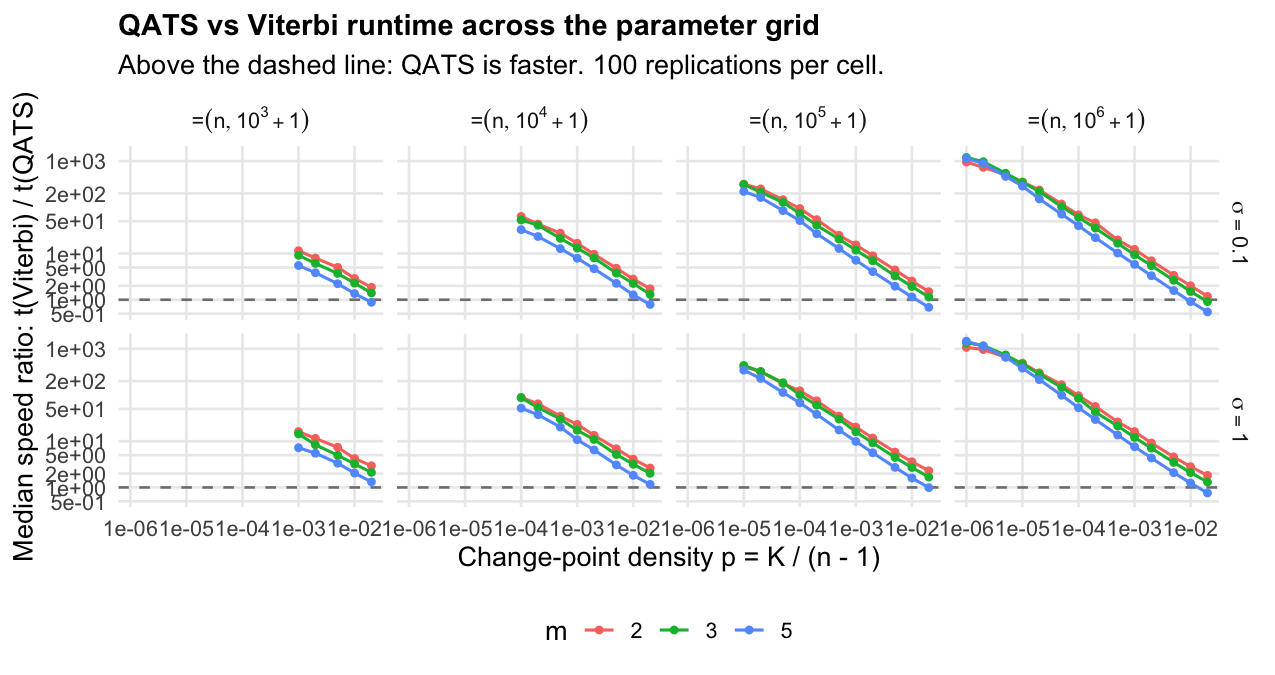
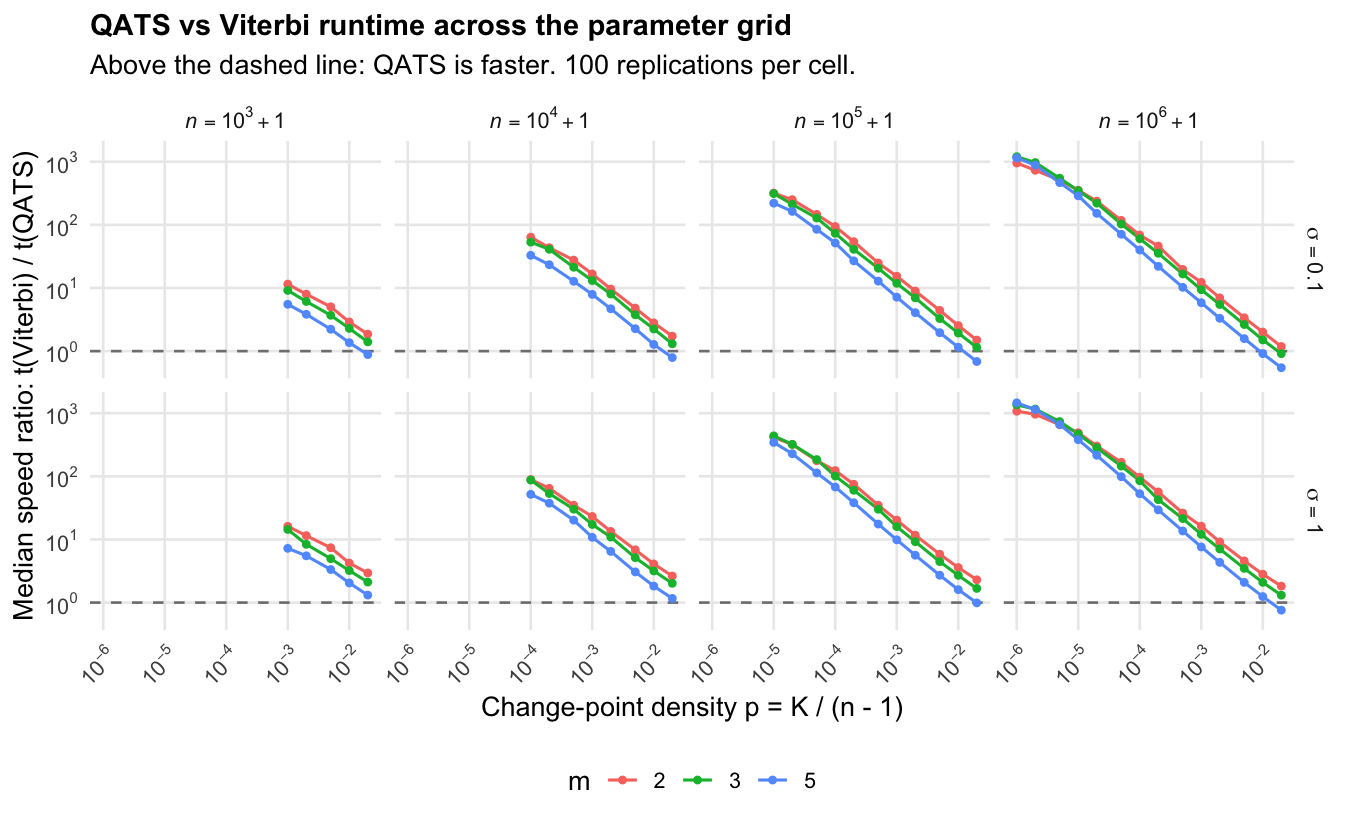
README: fix scaling plot facet labels and axis ticks
- Switch facet labels to factor + label_parsed format so they render as
  proper math (n = 10^3 + 1, sigma = 0.1) instead of being mis-parsed as
  R assignments
- Restrict axis breaks to powers of 10 with scales::label_log() and tilt
  x-axis labels 45 degrees to prevent overlap
- Bump figure size to 9 x 5.5 for better readability

diff --git a/README.md b/README.md
@@ -244,8 +244,14 @@ ggplot(sim, aes(x = p, y = ratio_q50,
   geom_hline(yintercept = 1, colour = "grey50", linetype = "dashed") +
   geom_line(linewidth = 0.7) +
   geom_point(size = 1.2) +
-  scale_x_log10() +
-  scale_y_log10(breaks = c(0.5, 1, 2, 5, 10, 50, 200, 1000)) +
+  scale_x_log10(
+    breaks = 10^(-6:0),
+    labels = scales::label_log()
+  ) +
+  scale_y_log10(
+    breaks = 10^(0:3),
+    labels = scales::label_log()
+  ) +
   facet_grid(sigma_lab ~ n_lab, labeller = label_parsed) +
   labs(
     x = "Change-point density p = K / (n - 1)",
@@ -254,7 +260,10 @@ ggplot(sim, aes(x = p, y = ratio_q50,
     title = "QATS vs Viterbi runtime across the parameter grid",
     subtitle = "Above the dashed line: QATS is faster. 100 replications per cell."
   ) +
-  theme(legend.position = "bottom")
+  theme(
+    legend.position = "bottom",
+    axis.text.x = element_text(angle = 45, hjust = 1)
+  )
 ```
 
 <img src="man/figures/README-scaling-plot-1.png" alt="" width="90%" />
